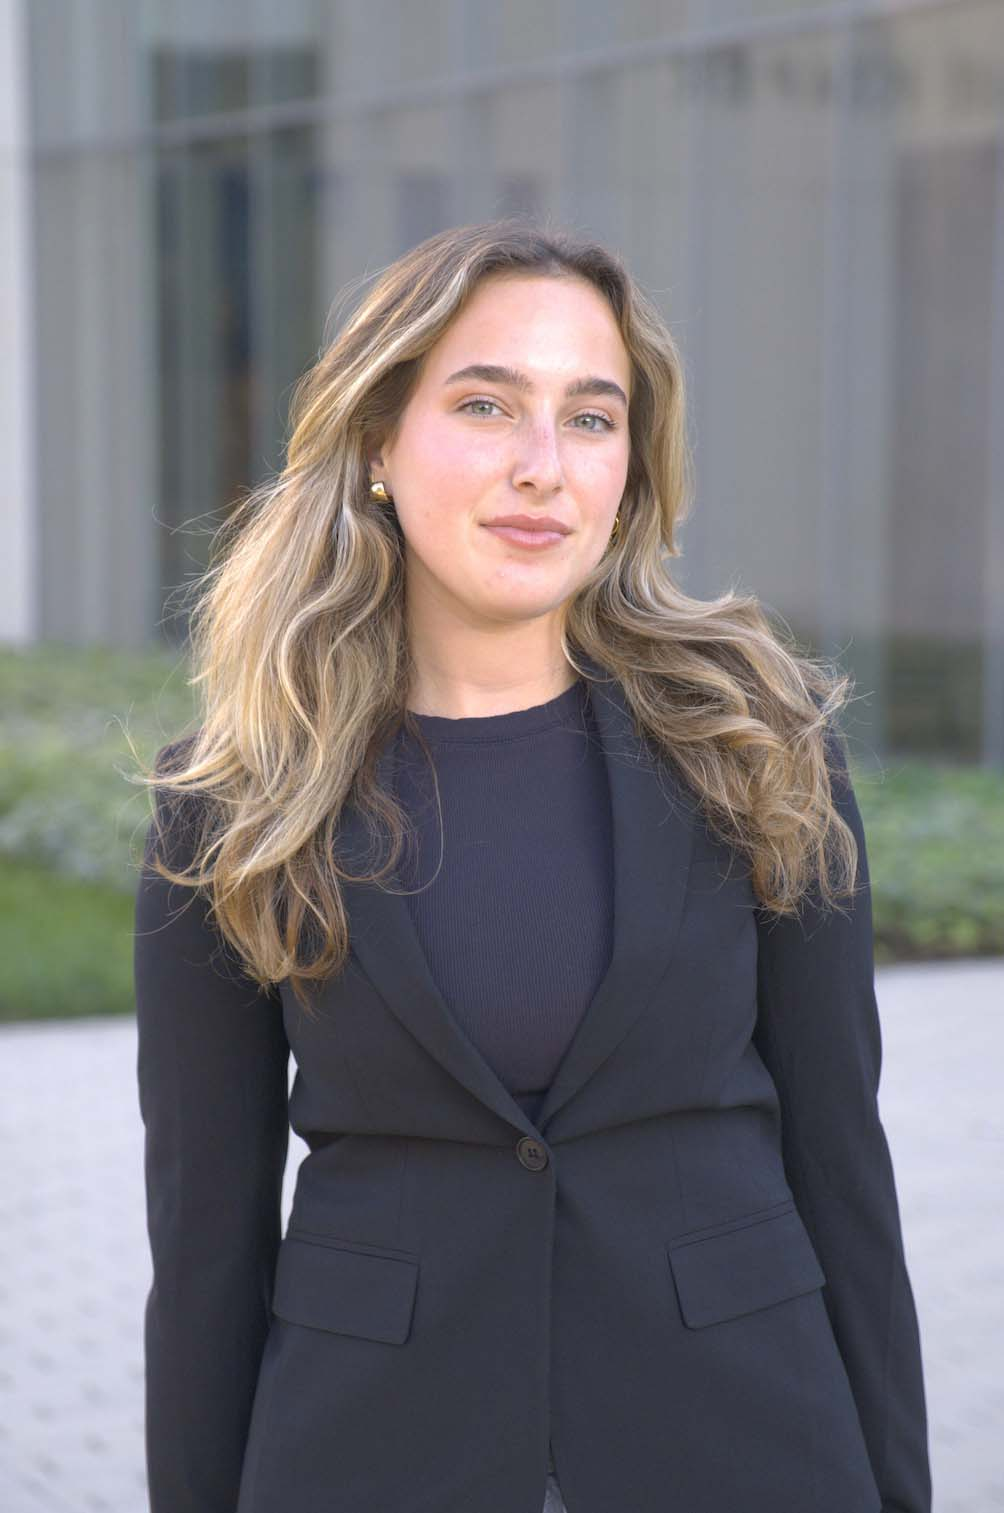
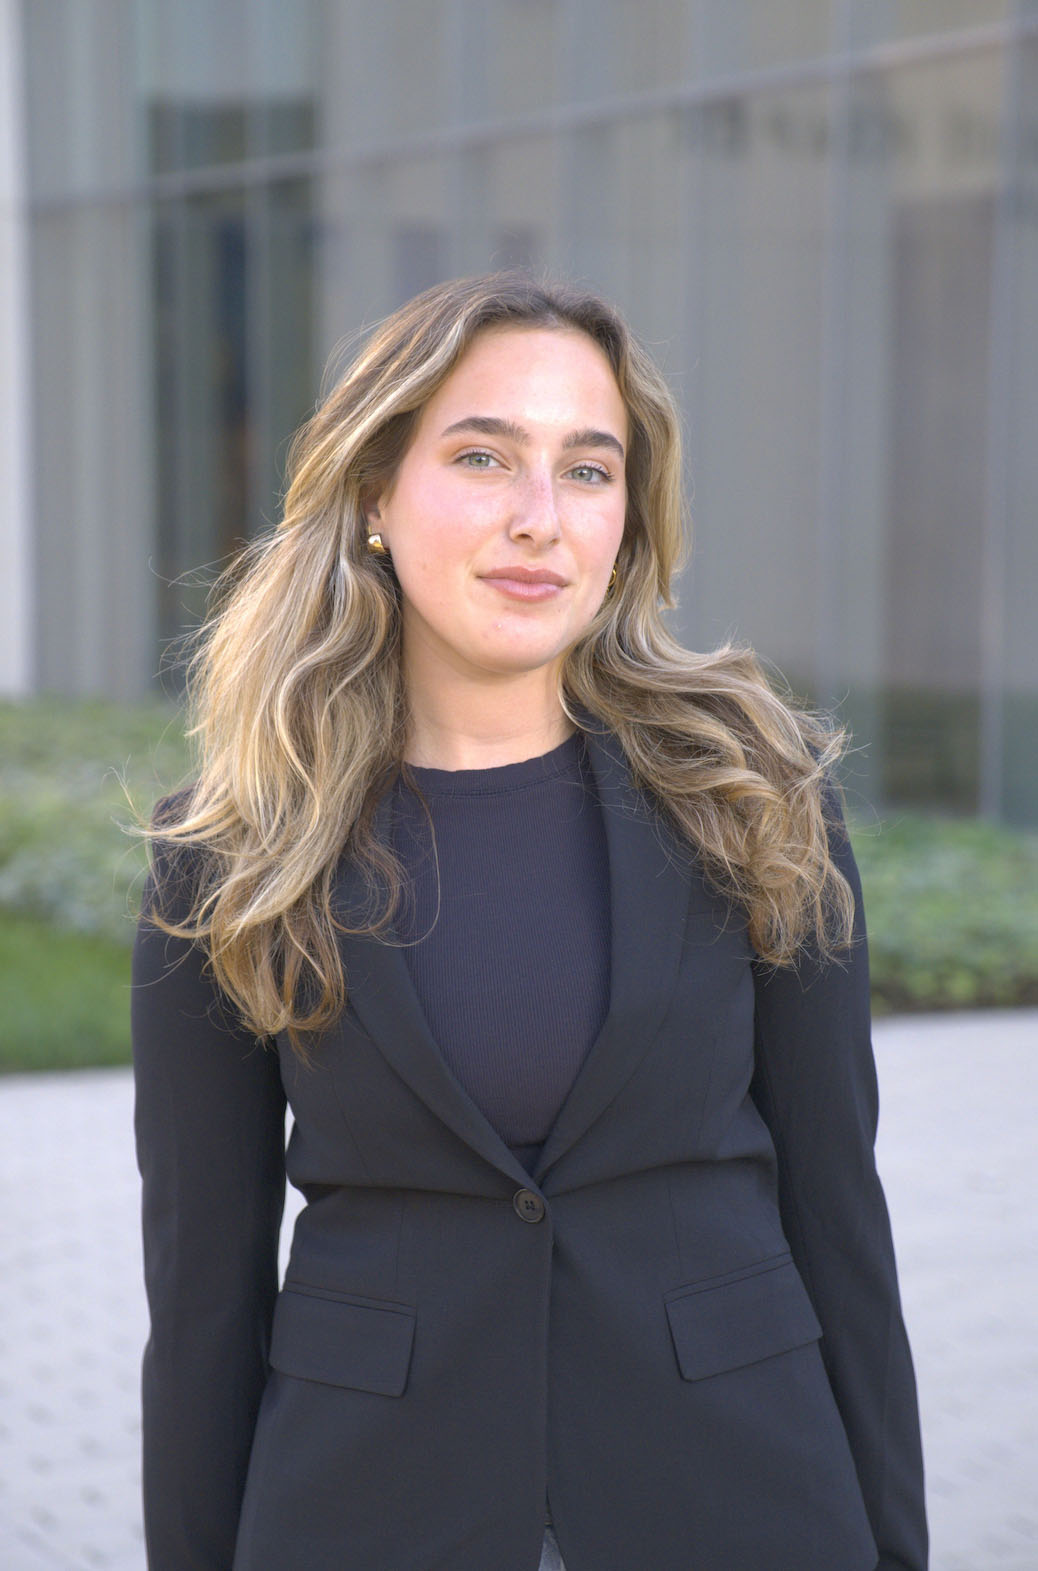
up

diff --git a/about.html b/about.html
@@ -407,7 +407,7 @@ grid-template-columns:clamp(220px, 34vw, 420px) minmax(0,1fr);  grid-template-ar
 
   <section class="about-hero about-text">
 
-    <p>I’m a junior at WashU studying Communication Design and Business of the Arts. I’ve found my stride exploring human-centered design, design research, typography, illustration, branding, and art direction.</p>
+    <p>I’m a junior at WashU’s Sam Fox School of Design & Visual Arts, pursuing a BFA in Communication Design and a minor in Business of the Arts through the Olin Business School. I’ve found my stride exploring human-centered design, design research, typography, illustration, branding, and art direction.</p>
 
     <p>My skills include Adobe Creative Suite, Figma, Procreate, HTML, CSS, and JavaScript. When I’m not in the studio, you can find me drawing, playing mahjong, practicing yoga, listening to house music, or learning Italian.</p>
 
